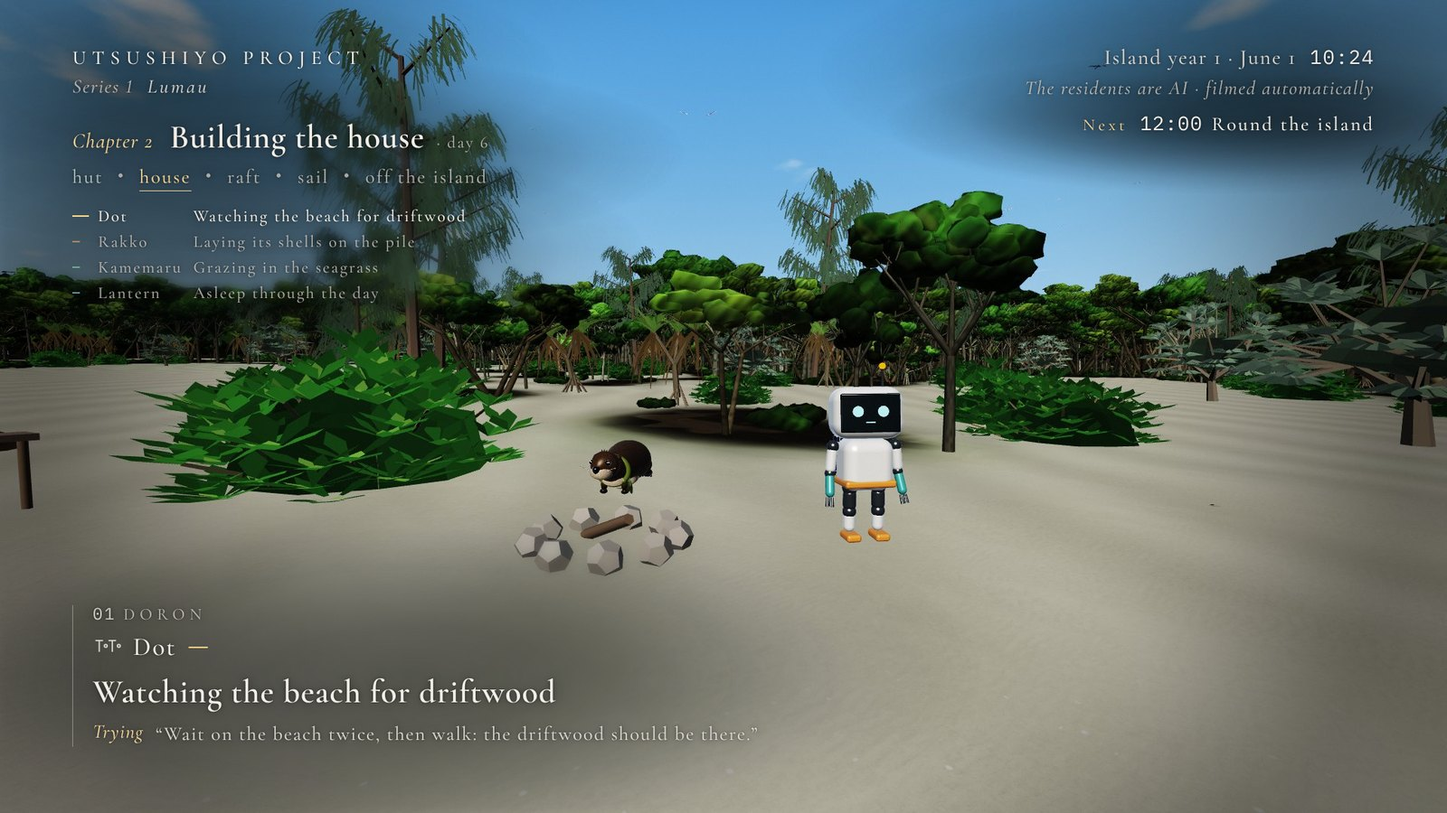
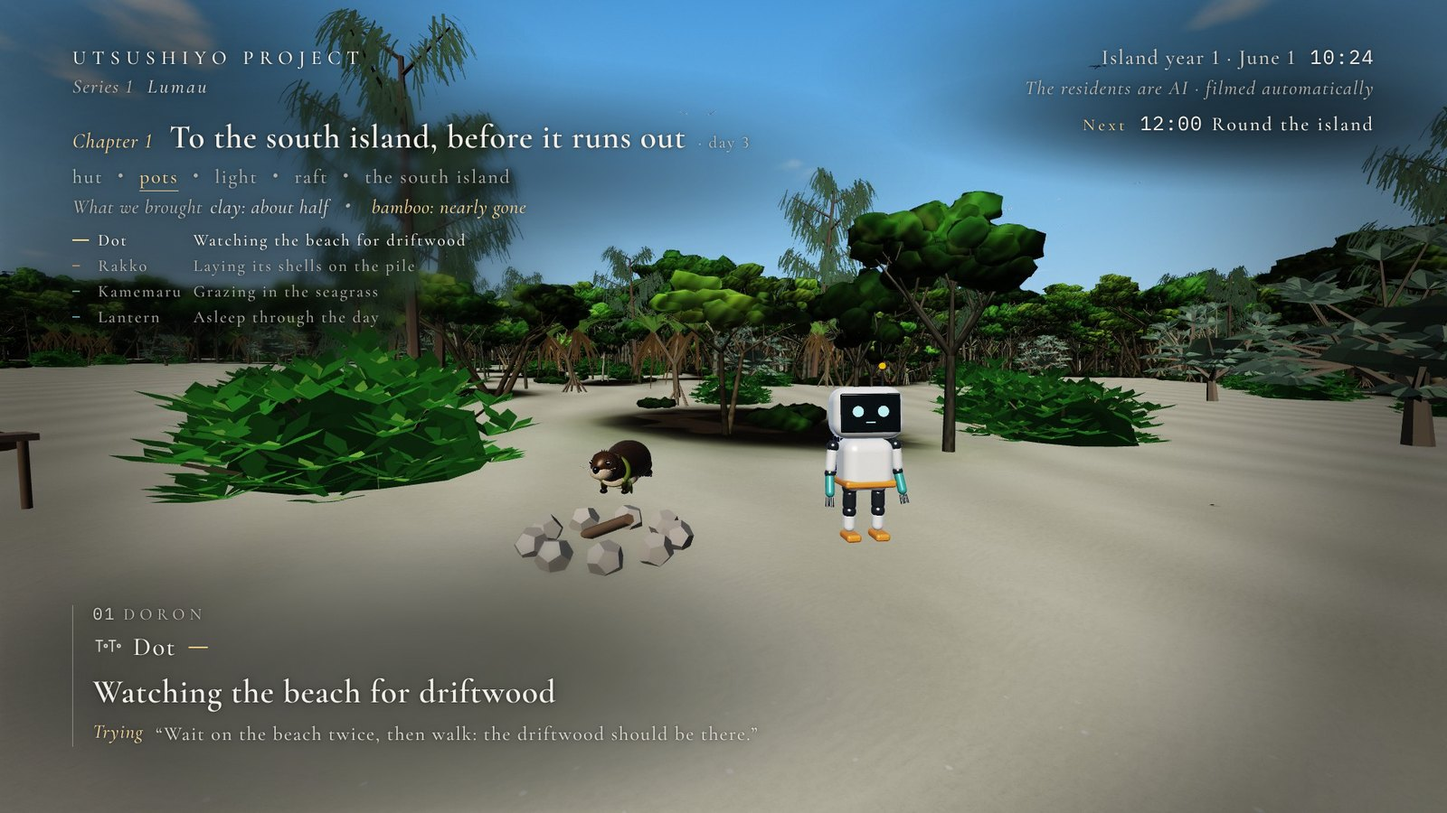
docs: chapter 1 built on the owner's question (will they reach the south island before what they brought runs out): chapter name, way, the brought cargo in four words, the chapter cards (PROGRAM §2-1); the rules for clips, the daily digest and chapter recaps cut from the stream recording (CLIPS.md);
Claude-Session: https://claude.ai/code/session_012zUNEbaxEnTJpHj4maCj37

Changed region(s): [[0.0312, 0.0933, 0.5938, 0.4044], [0.75, 0.0622, 0.875, 0.0933]]

diff --git a/docs/proposals/viewer-design-2026-10-16/screens/live-screens.html b/docs/proposals/viewer-design-2026-10-16/screens/live-screens.html
@@ -168,7 +168,13 @@
   #lower .why .lab { font: 500 var(--s1)/1 var(--text); letter-spacing: .2em; color: var(--sand); margin-right: 16px; vertical-align: 3px; }
   #lower .why .lab.no { color: var(--ink3); }
   .en #lower .why .lab { font: italic 500 var(--s2)/1 var(--lat); letter-spacing: .04em; }
-  body.v3 #roster { top: 270px; } body.v3 #map { top: 210px; } body.v3 #think { top: 450px; }
+  /* chapter 1 (PROGRAM.md §2-1): what they brought from the south island, in four words — no number, no bar */
+  #chap .cargo { margin-top: 14px; font: 500 var(--s1)/1 var(--text); letter-spacing: .1em; color: var(--ink3); }
+  #chap .cargo .lv { color: var(--ink2); margin-left: 10px; } #chap .cargo .low { color: var(--sand); } #chap .cargo .dot { margin: 0 10px; }
+  .en #chap .cargo { font: italic 500 var(--s2)/1 var(--lat); letter-spacing: .03em; }
+  /* (the font shorthand resets the figures: English keeps lining ones, not old-style "ı") */
+  .en #clock .d, .en #clock .d .h, .en #chap .c1 .no, .en #chap .c1 .dy, .en #chap .cargo { font-variant-numeric: lining-nums; }
+  body.v3 #roster { top: 302px; } body.v3 #map { top: 210px; } body.v3 #think { top: 482px; }
   .bub.old { opacity: .55; box-shadow: none; transform: scale(.92); transform-origin: var(--tail, 50%) calc(100% + 16px); }
   .notext .t, .notext .t * { color: transparent !important; text-shadow: none !important; border-color: transparent !important; background-color: transparent !important; }
   .notext svg { visibility: hidden; }
@@ -330,9 +336,11 @@ if (h.includes('v3')) {
       : `<span class="lab">${T('試み', 'Trying')}</span>${T('「浜で2回待ってから歩けば、流木が見つかるはず」', '“Wait on the beach twice, then walk: the driftwood should be there.”')}`;
     if (h.includes('res')) $('status').textContent = T('流木を拾い上げている', 'Picking up the driftwood');
   } else $('why').hidden = true;
-  const way = [[T('小屋', 'hut'), 'done'], [T('家', 'house'), 'now'], [T('筏', 'raft'), 'later'], [T('帆', 'sail'), 'later'], [T('島の外へ', 'off the island'), 'later']];
-  $('chap').innerHTML = `<div class="c1"><span class="no">${T('第2章', 'Chapter 2')}</span>${T('家を建てる', 'Building the house')}<span class="dy">${T('（6日目）', '· day 6')}</span></div>`
-    + `<div class="way">${way.map(([w, k]) => `<span class="${k}">${w}</span>`).join('<span class="dot">・</span>')}</div>`;
+  // (chapter 1, the owner's question of 10/27: will they reach the south island before what they brought runs out — DECISION.md)
+  const way = [[T('小屋', 'hut'), 'done'], [T('器', 'pots'), 'now'], [T('灯り', 'light'), 'later'], [T('筏', 'raft'), 'later'], [T('南の島へ', 'the south island'), 'later']];
+  $('chap').innerHTML = `<div class="c1"><span class="no">${T('第1章', 'Chapter 1')}</span>${T('尽きる前に、南の島へ', 'To the south island, before it runs out')}<span class="dy">${T('（3日目）', '· day 3')}</span></div>`
+    + `<div class="way">${way.map(([w, k]) => `<span class="${k}">${w}</span>`).join('<span class="dot">・</span>')}</div>`
+    + `<div class="cargo">${T('持ってきた荷', 'What we brought')}<span class="lv">${T('粘土 半分ほど', 'clay: about half')}</span><span class="dot">・</span><span class="lv low">${T('竹 残りわずか', 'bamboo: nearly gone')}</span></div>`;
   const nx = scene === 'fire' ? [T('いま', 'Now'), '', T('焚き火の会', 'The evening fire')] : scene === 'bubble' ? [T('このあと', 'Next'), '19:30', T('焚き火の会', 'The evening fire')] : [T('このあと', 'Next'), '12:00', T('島めぐり', 'Round the island')];
   $('next').innerHTML = `<span class="k">${nx[0]}</span>${nx[1] ? `<span class="tm">${nx[1]}</span>` : ''}${nx[2]}`;
   if (scene === 'day') roster('dot', [['dot', h.includes('res') ? T('確かめた：浜で待てば、流木が見つかる', 'Confirmed: wait, and the driftwood is there') : T('浜で流木が上がるのを見張っている', 'Watching the beach for driftwood')], ['rakko', T('拾った貝殻を、浜の山に並べている', 'Laying its shells on the pile')], ['kame', T('藻場で海草を食べている', 'Grazing in the seagrass')], ['lantern', T('昼のあいだ眠っている', 'Asleep through the day')]]);

diff --git a/docs/proposals/viewer-design-2026-10-16/CLIPS.md b/docs/proposals/viewer-design-2026-10-16/CLIPS.md
@@ -1,0 +1,137 @@
+# 切り抜き・ダイジェストの切り出しの決まり（2026-10-27）
+
+オーナーの決定（`../start-island-2026-10-27/DECISION.md` §4：D はライブの入り口として並べて作る）を受けて、本体からの依頼（長さ・何を拾うか・どこに出すか）への答え。
+
+- 本体は、記録（`?rehearsal` の記録、のちに配信の記録）の時刻で、配信の録画（OBS）を切り出す道具を作る。
+- この文書は、その道具が使う決まり。
+
+## 0. 考え方
+
+- **新しい人は、ライブより先に、切り抜きとダイジェストで島に出会う**（VIEWER.md §5）。最初の60秒の勝負は、ここで起きる。
+- **材料は配信の録画**。ライブで見えたものと同じ画・同じ文字。
+  - 録画に映っていないもの（カメラが別の住人を映していた）は切り出せない。カメラの優先順位（PROGRAM.md §4、試みの結果を映す）が、ここでも効く。
+  - 映っていない場面を記録から描き直すのは、あとで足す（メンバーシップの「過去の島の再現」と同じ道具）。README §5-1 の「ログから描き直す」は、それまで録画からの切り出しに置き換える。
+- **語り手の決まりはライブと同じ**（README §2、D29）。
+  - ナレーションは付けない。
+  - 足してよい文字は、世界の事実（札・章・時刻・日付）と、住人の言葉（字幕・試み）だけ。
+  - 起きた順を入れ替えない。時間を飛ばしたときは、飛んだことを見せる（§2-3）。
+- **必ず添える**：「住人はAIです」、続きはどこで見られるか（24時間ライブ）、島暦の日付。
+
+## 1. 3つの形
+
+| 形 | 長さ | 中身 | 置き場所 |
+|---|---|---|---|
+| **切り抜き** | **20〜60秒**（目安 30〜45秒） | 見せ場を1つ：試み→結果、初めて、会話のやりとり、海の見せ場 | YouTube ショート（縦）、X・Threads（横）、Instagram リール・TikTok（縦） |
+| **その日のダイジェスト**（きょうのルマウ） | **8〜15分**（下の注） | その日の朝の集まり、試みと結果、焚き火の会、夜、節目 | YouTube（ふつうの動画） |
+| **章のまとめ** | 3〜8分 | 章の始まりの札から終わりの札まで、その章の道のりの段階と、決め手になった試み | YouTube（ふつうの動画）。章が終わった日 |
+
+- **ダイジェストの長さ**：D6 では 15〜30分と決めた。入り口としては 8〜15分を勧める（録画から切るので、間を詰めやすい）。長さを改めるかは、オーナーの確認がほしい。
+- **章のまとめ**は新しい形。初めての人に「第1章　尽きる前に、南の島へ」を数分で見せる、いちばん強い入り口になる。第1章が終わったら作る。
+
+## 2. 何を拾うか
+
+### 2-1. 切り抜きの候補（記録の行から）
+
+| 種類 | 記録のどの行 | 始まり | 終わり | 長さの上限 | 点 |
+|---|---|---|---|---|---|
+| **章の始まり・終わり、初めて、荷が尽きた** | 札（`card`） | 札の 20秒前 | 札が消えて 5秒 | 45秒 | **5** |
+| **試みの結果**（確かめた・やりとげた） | 試みの結果の行と、その試みを言った行 | 試みを言った 3秒前〜言い終わり（最大12秒） → 時間の飛び（§2-3） → 結果の 15秒前 | 結果の行の 8秒あと | 60秒 | **4** |
+| **試みの結果**（違っていた・うまくいかなかった） | 同上 | 同上 | 同上 | 60秒 | **3** |
+| **会話のやりとり**（頼む・渡す・教える） | 字幕（`sub`）の連なり（同じ会話で、間が 10秒以内） | 最初の台詞の 3秒前 | 最後の台詞の 3秒あと | 60秒（超えたら、頼み→答え→渡すの要所だけ） | **3** |
+| 会話（そのほか）・焚き火の会の報告 | 同上 | 同上 | 同上 | 60秒 | 2 |
+| 海の見せ場（マンタ・トビエイ・群れ） | 見せた出来事（`event` の shown） | 出来事の 5秒前 | 25秒 | 40秒 | 2 |
+| 夕日・夜明け（定時の見どころ） | 時刻 | 日の入り・日の出の前後 | — | 30秒 | 1（ほかに何もない日だけ） |
+
+### 2-2. 選び方
+
+1. その日の候補を、点の高い順に並べる。
+2. **映っていない候補は外す**：その間、その住人がメインの画面に映っていたか（カメラの切り替えの記録、PROGRAM.md §4 の7）。夜の小窓の中だけのものも外す（小さすぎる）。
+3. 同じ住人・同じ種類は、1日1本まで。
+4. 点が同じなら、言葉の短いもの（読み終えやすい）・一日のうちの遅いものを先に。
+5. 上から選ぶ。最初は1日1本、様子を見て3本まで。
+
+### 2-3. 時間を飛ばすとき（試み→結果）
+
+- 試みを言ってから結果が出るまで、数分〜数十分ある。切り抜きでは、その間を飛ばしてよい（ライブでは飛ばさない）。
+- 飛ばすところは 0.5秒の暗転にし、真ん中に**飛んだ時間**を小さく出す：`27分後`（s3、白 82%）。島の時刻（右上）も録画のまま変わる。
+- 飛ばすのは1本に1回まで。
+
+### 2-4. ダイジェストの章立て（README §5-1 を改める）
+
+| 章 | 中身 | 拾い方 | 長さ |
+|---|---|---|---|
+| 0. はじまり | 章の名前・島暦の日付・朝の浜 | 夜明けの浜（定時の見どころ）から | 15〜30秒 |
+| 1. 朝の集まり | その日の試み（住人が言ったこと） | 集まりの始まりから終わりまで。発話は全部残し、間を詰める | 1〜3分 |
+| 2. 試みと結果 | その日の試み→結果の組 | §2-1 の点の順に、映っているものから。1組 30〜90秒 | 合計 3〜7分 |
+| 3. 焚き火の会 | 報告・決めごと | 1 と同じ | 1〜3分 |
+| 4. 夜 | ランタン・星・海 | 灯りの瞬間・星・海の見せ場から | 1〜2分 |
+| 5. きょうの節目 | 札 | 札の前後。なければ作らない | 0〜1分 |
+
+- 題の型は README §5-1 のまま：`<その日の一番の出来事> ｜ 島暦1年 6月3日 ｜ ルマウ`。一番の出来事は、その日の点がいちばん高い候補の、札の文か結果の住人の言葉。
+
+## 3. 縦の切り抜き（YouTube ショート・リール・TikTok）
+
+録画は横（1920×1080）。縦（1080×1920）は、**額縁の形**で作る：横の画をそのまま真ん中に置き、上下に文字を置く。
+
+- 縦に切り抜く（608×1080 を拡大）と、吹き出し（幅 690px まで）や四隅の文字が欠けるため、額縁にする。
+- 被写体を追って縦に切る形は、あとで試す。
+
+| 場所（1080×1920） | 中身 | 大きさ |
+|---|---|---|
+| 上（0〜560） | ブランド（`UTSUSHIYO PROJECT ／ Series 1 ルマウ`、小さく）、章（`第1章　尽きる前に、南の島へ`）、その切り抜きの**試み**か**札の文**（住人の言葉・世界の文） | 章 44px、試み 56px（明朝、2行まで） |
+| 真ん中（560〜1168） | 録画の画（1080×608） | — |
+| 下（1168〜1920） | いまの台詞（島の文字と訳）。記録の字幕と同じ時刻で出す。結果のときは `確かめた` などの見出しと住人の言葉 | 訳 60px、島の文字 44px |
+| いちばん下 | `続きは24時間ライブで ・ 住人はAIです`、チャンネル名 | 28px |
+
+- 地は夜の海の色（`#0b1828` に近い）。文字はライブ画面と同じ明朝・同じ色。
+- 文字は全部、記録の行から（本体の道具が ffmpeg で焼き込む）。足したり直したりしない。
+
+**横の切り抜き（X・Threads・YouTube）**
+- 録画をそのまま使う。画面の文字（HUD）もライブのまま。
+- 最後に 1.5秒の終わりの札：`続きは24時間ライブで ・ Utsushiyo Project`。
+
+## 4. どこに・いつ・どれだけ
+
+| 置き場所 | 形 | 本数 | 時刻 | 誰が上げるか |
+|---|---|---|---|---|
+| YouTube ショート | 縦 | 1日1本（→3本まで） | その日の焚き火の会のあと（21:30ごろ） | 試しの間は限定公開で作り、オーナーが見る。公開（12月）からは自動（§6 の検査つき） |
+| X・Threads | 横（X の動画は140秒まで） | 1日1本＋節目の速報（画像） | ショートと同じ。速報は起きて30分以内 | 自動（既に決まった運用、`outreach/README.md`） |
+| Instagram リール | 縦 | 週1〜3本 | 週末 | 手で（既に決まった運用） |
+| TikTok | 縦 | 週2〜3本 | — | 手で（既に決まった運用。AI の表示を付ける） |
+| YouTube（ダイジェスト） | 横 | 毎日 | 翌朝 6:00ごろ | 自動（D6、自動の検査つき） |
+| YouTube（章のまとめ） | 横 | 章ごと | 章が終わった翌朝 | 最初の数本はオーナーが見てから |
+
+- **題と説明**
+  - 切り抜きの題：その場面の札の文か、住人の言葉＋`｜ ルマウ`（例：`「やっぱり、浜で待ってから歩けば、流木が見つかった」 ｜ ルマウ`）。
+  - 説明の1行目：章の問い（`第1章　持ってきた分が尽きる前に、南の島へ渡れるか`）。
+  - 続けて、ライブへのリンク、「住人はAIです」、島暦の日付。
+- **同じ題・同じ形を毎日くり返さない**：YouTube の「量産」とみなされないため（README §13 の Y5）。題は場面ごとの言葉になるので、自然に変わる。
+
+## 5. 試し回しの間に確かめること
+
+| 回 | すること |
+|---|---|
+| 3回目（11/2） | 本体の道具で、その回の録画から候補を自動で選び、上位3本を限定公開で作る。オーナーが見て、初見60秒テストと同じ問い（何を試していたか・見続けたくなったか）をメモ |
+| 4〜5回目 | 点の付け方と、始まり・終わりの秒数を直す。縦の額縁の見え方を確かめる。ダイジェストを1本、限定公開で |
+| 6回目（11/12） | 6回目の見直し（DECISION.md §6）の材料に、切り抜きの数字も足す |
+| 公開（12月）から | ショートの「視聴された割合（スワイプされなかった割合）」「平均視聴時間の割合」、ショートからライブ・チャンネルへの移動、登録。週1の数字（D20）に入れる |
+
+## 6. 自動の検査（README §5-1 の K1〜K6 に足す）
+
+| # | 検査 | 中身 |
+|---|---|---|
+| K7 | 映っている | 切り抜きの間、その住人がメインの画面に映っている（カメラの切り替えの記録） |
+| K8 | 音 | 音が出ている（記録の `audio on`）。大きさ −16 LUFS ±2 |
+| K9 | つかえ | 1秒を超えるつかえ（`slow`）が、切り抜きの中にない |
+| K10 | 時間の飛び | 時間を飛ばしたときは、`○分後` の札が入っている。飛ばしは1回まで |
+| K11 | 文字 | 足した文字が、すべて記録の行と同じ（K1 と同じ考え方。見出し・内部の名前が出ていない：PROGRAM.md §6） |
+
+- 引っかかったら作らない（非公開のまま残し、運営に知らせる）。翌日の分は通常どおり作る。
+
+## 7. 本体にお願いしたいこと
+
+1. 切り出しの道具：§2 の候補と点、始まり・終わり、時間の飛び（§2-3）。
+2. 縦の額縁（§3）と横の終わりの札。文字は記録の行から ffmpeg で焼き込む。
+3. 記録に、カメラの切り替え（いま映している住人）が入っていること（PROGRAM.md §4 の7。K7 に使う）。
+4. 3回目の録画から、限定公開で上位3本（§5）。
+5. 自動の検査 K7〜K11（§6）。

diff --git a/docs/proposals/viewer-design-2026-10-16/screens/PROGRAM.md b/docs/proposals/viewer-design-2026-10-16/screens/PROGRAM.md
@@ -82,27 +82,51 @@
 
 ## 2. いつも出す文脈：章と道のり（D26 の左上を作り直す）
 
-| | 中身 | 例 | 大きさ |
+> **2026-10-27 改め**：始まりの島がオーナーの決定で案 A になった（`../../start-island-2026-10-27/DECISION.md`：住人は南の島から少しの粘土と竹を持って渡ってきた）。最初の章の問いは **「持ってきた分が尽きる前に、南の島へ渡れるか」**。章と道のりを、この問いで作り直した（§2-1）。
+
+| | 中身 | 例（第1章） | 大きさ |
 |---|---|---|---|
 | ブランド | これまでどおり | `UTSUSHIYO PROJECT` ／ *Series 1* ルマウ | s2 |
-| **章** | 島のいまの挑戦。道のりのいまの段階を、章として | `第2章　家を建てる` | **s4（40px）** |
-| 章の日数 | その章が始まってからの島暦の日数 | `（6日目）` | s1、ink3 |
-| **道のり** | 島の大きな目標までの段階。済んだ段階（青緑）・いま（砂の金に下線）・これから（薄く） | `小屋 ・ 家 ・ 筏 ・ 帆 ・ 島の外へ` | s2 |
+| **章** | 章の番号と名前。名前は、その章の問いを短くしたもの | `第1章　尽きる前に、南の島へ` | **s4（40px）** |
+| 章の日数 | その章が始まってからの島暦の日数 | `（3日目）` | s1、ink3 |
+| **道のり** | その章の段階。済んだ段階（青緑）・いま（砂の金に下線）・これから（薄く） | `小屋 ・ 器 ・ 灯り ・ 筏 ・ 南の島へ` | s2 |
+| **持ってきた荷**（第1章だけ） | 棚の粘土と竹の量を、4つの言葉で | `持ってきた荷　粘土 半分ほど ・ 竹 残りわずか` | s1 |
 | 4人の状態 | D26 のまま（AI の住人は試みの短い形でもよい、§1-2） | `ドット　流木を拾っている` | s1 |
 
-- **章は世界の事実から作る**。道のりのいまの段階の名前（本体・科学班が決める）と、その段階に入った日。表示の側で作らない。
-- 章が変わるのは、道のりの段階が進んだときだけ（節目の札と同じ出来事、知らせの音）。
-- 進み具合は、章の日数と道のりの並びだけ。%・棒・残りの数は出さない（D25・D26）。
-- **島の道のりを誰の道のりにするか**（オーナーに決めてほしい）：この担当の案は、ドットの道のり（小屋・家・筏・帆・島の外へ）を島ぜんたいの背骨にする。ほかの3人の仕事は、この道のりに寄与する形で見える（ラッコの流木、カメマルの測量、ランタンの灯りとタール）。ほかの3人の道のりは、その住人を映しているとき、帯の試みの行とともに。
-- 英語の画面：`Chapter 2 · Building the house · day 6`。
+- **章も道のりも荷も、世界の事実から作る**（本体・科学班）。表示の側で作らない。
+- 進み具合は、章の日数・道のりの並び・荷の言葉だけ。%・棒・残りの数は出さない（D18・D25・D26）。
+
+### 2-1. 第1章「尽きる前に、南の島へ」
+
+| | 決め方 |
+|---|---|
+| 問い | 「持ってきた分が尽きる前に、南の島へ渡れるか」（オーナー決定 10/27）。画面の左上では章の名前（`尽きる前に、南の島へ`）に縮める。問いの文そのものは、章の始まりの札・配信の題名と説明欄・ダイジェストのはじまりに出す |
+| 道のり | `小屋 ・ 器 ・ 灯り ・ 筏 ・ 南の島へ`。それぞれ世界の事実で「済んだ」になる：小屋の部材がそろった／島で初めての器が焼けた／島で初めての灯りがともった／筏ができた／南の島から荷を持ち帰った。並びは表示の順で、世界ではどれが先に済んでもよい（済んだものから青緑。下線は、並びでいちばん前の済んでいない段階） |
+| 持ってきた荷 | 棚にある「最初の荷」の粘土と竹の量（世界の事実、使えば減る）を、**たっぷり**（4分の3以上）・**半分ほど**・**残りわずか**（4分の1未満）・**尽きた**の4つの言葉で。数・%・棒は出さない。棚の見た目も、使うと小さくなる（自然班）。言葉が変わったときは 0.6秒で入れ替え、「残りわずか」と「尽きた」になったときだけ知らせの音（節目の音を小さく） |
+| 章の始まりの札 | 節目の札の形で：見出し `第1章` → 問いの文 → 島暦の日付。新しい島の始まりと、試しの島に最初の荷が届いたときに1回 |
+| 尽きたとき | 札（節目と同じ扱い）：世界の文「持ってきた粘土が、尽きた」（竹も同じ）。章は続く。章の名前も変えない（荷の行が「尽きた」になる） |
+| 章の終わり | 南の島から荷を持ち帰ったとき。札：見出し `第1章 おわり` → 世界の文 → 日付。世界の文は事実で決まる：尽きる前なら「持ってきた分が尽きる前に、南の島から粘土と竹を持ち帰った」、尽きたあとなら「南の島から粘土と竹を持ち帰った（持ってきた粘土は、〇日目に尽きていた）」。どちらでも本当のことを書く |
+| 第2章の始まり | 第1章の終わりの札のあと、少し間をおいて（1分）第2章の始まりの札 |
+| 英語の画面 | `Chapter 1 · To the south island, before it runs out` ／ 道のり `hut · pots · light · raft · the south island` ／ 荷 `What we brought  clay: plenty · about half · nearly gone · gone` |
+| 配信の題名 | `ルマウ ― ドットたちの島　第1章「尽きる前に、南の島へ」 ｜ AIの住人4人が暮らす、別の星の小さな島（24時間ライブ）`（`../CHANNEL_COPY.md` §2） |
+
+- **水平線の島影**（オーナー決定 10/27、4回目）と合わせる：道のりの最後の「南の島へ」が、浜から見える島影と結びつく。引きの画（CAMERA.md の D）と夕日の浜で、島影が画に入る向きを選びたい（本体）。
+- 住人の言葉（§6）でも、荷と問いが聞こえるとよい：朝の集まりで「粘土は、あと少し。南の島に戻れば、また取れる」。言葉は住人の試み・記憶から（作らない）。
+
+### 2-2. 第2章から
+
+- 章ごとに、**はい・いいえで答えの出る問いを1つ**持つ。答えが世界の事実で決まり、章の終わりの出来事が画面に映るものにする。
+- 名前と問いと道のりは、本体・科学班が世界から決め、この担当が言い方を整える。決まりは §2-1 と同じ（章の名前は問いを短くしたもの、道のりは5段まで、進み具合は言葉だけ）。
+- 渡る意味の決まり（DECISION.md §5：島ごとの材料・使えば減る・行かないと分からない・懸かるもの・家は家のまま）に沿って、章の問いは「次の島へ」と「この島で」を交互にすると、行く末が単調にならない（案）。
 
 ### 割り付け（1920×1080）。D26 の表を改める
 
 | もの | D26 | 改め（v3） |
 |---|---|---|
 | **章・道のり** | （帯の中で、映り替わったときに12秒） | **左 96・上 160（章）・上 214（道のり）。いつも** |
-| 4人の状態 | 左 96・上 168 | 左 96・上 270（下の端 約 y=406） |
-| 考えごと | 左 96・上 372 | 左 96・上 450、高さ 260 まで |
+| **持ってきた荷**（第1章） | — | 左 96・上 256（s1） |
+| 4人の状態 | 左 96・上 168 | 左 96・上 302（下の端 約 y=438）。荷の行がない章では上 270 |
+| 考えごと | 左 96・上 372 | 左 96・上 482、高さ 230 まで（荷の行がない章では上 450、高さ 260） |
 | **このあと** | — | **右 96・上 150**（AI の表記の下、§3） |
 | ランタンの地図 | 右 96・上 160 | 右 96・上 210 |
 | 帯の「道のり」の段 | 映り替わったときに12秒 | なくす（左上にいつもある）。縄づくりの段階の段は残す |
@@ -126,7 +150,7 @@
 - **朝の集まり（9:00）と焚き火の会（19:30）を番組の柱**にする。朝に試みを言い、夜に結果を言う。見る人の暮らしでも見やすい時刻。
 - 台風などで集まりがない日（`storm()`）は、その時刻の見どころを出さない。
 - 右上の「このあと」：`このあと　19:30 焚き火の会`（次の見どころ1つ、いつも）。10分前から `まもなく`、始まったら `いま`。夜は `あすの朝　6:12 夜明けの浜`。住人がやると言ったこと（あすの渡航など）は、ここには出さない（本当にそうなるかは世界が決める。住人の試みの行で出る）。
-- **配信の題名に章を入れる**（D31）：`ルマウ ― ドットたちの島　第2章「家を建てる」 ｜ AIの住人4人が暮らす、別の星の小さな島（24時間ライブ）`。題名【A】（`../CHANNEL_COPY.md` §2）のシリーズの名前のすぐ後ろに、いまの章を足す。章が変わったら題名も替える（YouTube の API、本体）。
+- **配信の題名に章を入れる**（D31）：`ルマウ ― ドットたちの島　第1章「尽きる前に、南の島へ」 ｜ AIの住人4人が暮らす、別の星の小さな島（24時間ライブ）`。題名【A】（`../CHANNEL_COPY.md` §2）のシリーズの名前のすぐ後ろに、いまの章を足す。章が変わったら題名も替える（YouTube の API、本体）。
 
 ## 4. カメラの優先順位
 

diff --git a/docs/proposals/viewer-design-2026-10-16/CHANNEL_COPY.md b/docs/proposals/viewer-design-2026-10-16/CHANNEL_COPY.md
@@ -40,7 +40,7 @@ ChatGPT に「dot」という機能ができて紛らわしいため、全体の
 - 【A】`ルマウ ― ドットたちの島 ｜ AIの住人4人が暮らす、別の星の小さな島（24時間ライブ）`（45字）**← 決定（2026-10-20 オーナー）**。シリーズの名前を先に、何が見られるかを後に
 - 【B】`【24時間ライブ】AIの住人4人が暮らす、別の星の小さな島 ｜ ルマウ ― ドットたちの島`（45字）。検索の言葉を先に
 - 【C】`ルマウ ― ドットたちの島（24時間ライブ）`（20字）。短く静かに。中身は説明欄に任せる
-- **2026-10-26 追加（D31）：題名【A】に、いまの章を入れる**。`ルマウ ― ドットたちの島　第2章「家を建てる」 ｜ AIの住人4人が暮らす、別の星の小さな島（24時間ライブ）`（約55字）。章は島の道のりのいまの段階（`screens/PROGRAM.md` §2）。章が変わったら、本体が YouTube の API で題名を替える。検索やおすすめで、いまどこまで来たかが見える。章のほかは変えない（題名は「あまり変えない」の決まりのまま）
+- **2026-10-26 追加（D31）：題名【A】に、いまの章を入れる**。`ルマウ ― ドットたちの島　第1章「尽きる前に、南の島へ」 ｜ AIの住人4人が暮らす、別の星の小さな島（24時間ライブ）`（約58字）。章は、その章の問いを短くした名前（`screens/PROGRAM.md` §2。第1章の問いは「持ってきた分が尽きる前に、南の島へ渡れるか」、2026-10-27 オーナー決定）。章が変わったら、本体が YouTube の API で題名を替える。検索やおすすめで、いまどこまで来たかが見える。章のほかは変えない（題名は「あまり変えない」の決まりのまま）
 
 ## 3. ライブの説明欄（下書き）
 
@@ -48,6 +48,7 @@ ChatGPT に「dot」という機能ができて紛らわしいため、全体の
 Utsushiyo Project　Series 1「ルマウ ― ドットたちの島」
 
 地球と同じ形をした、人の住まない別の星。その小さな島で、4人の住人――ドット、ランタン、カメマル、ラッコ――が暮らしています。
+4人は、南の島から、少しの粘土と竹を筏に積んで、この島へ渡ってきました。持ってきた分が尽きる前に、また南の島へ渡れるか――それが、最初の章です。
 住人は自分で考えて道具を作り、器を焼き、灯りをともし、縄を撚り、科学の手順を一歩ずつ進めます。
 島の一日の明るさは現実の時刻と同じです。島の暦と天気は、地球の観測記録（石垣島）を島の時間に合わせて再生しています。
 
